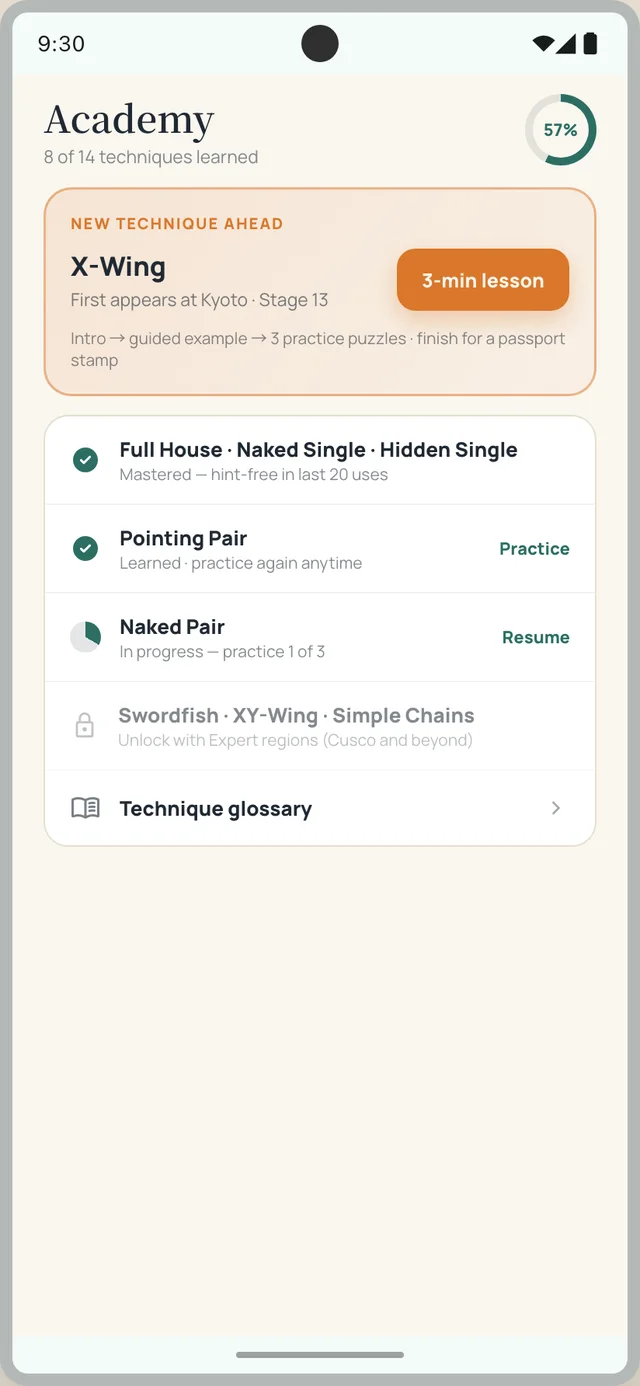
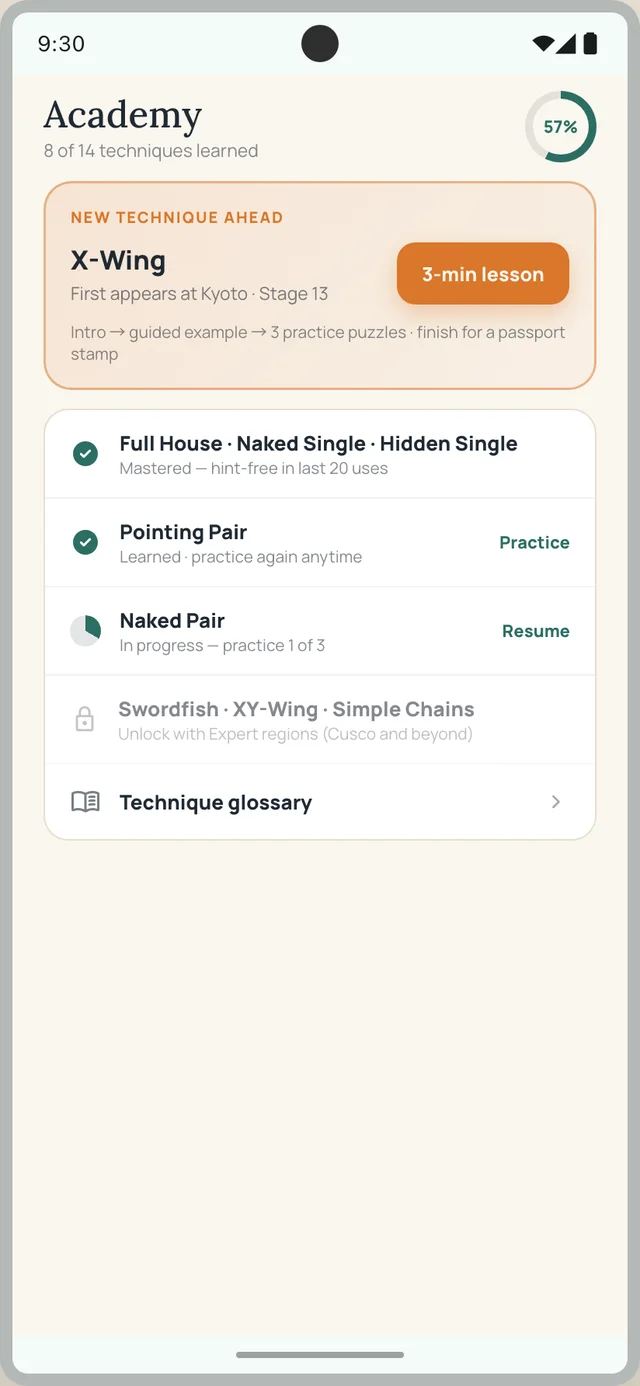
revert: 인앱 화면 표제는 시안대로 Lora 유지 — 세리프 전환은 한글에만
화면 문안은 전부 영문이라 Lora 가 맞다. 세리프 전환은 KO 랜딩의
한글 표제(Noto Serif KR 600, dfde5c3)에만 남긴다.

- assets/sudoku/*.webp 7종을 a9f9f61 이전 상태로 복원 (재렌더 아닌 원본 복구)
- make_screens.py 의 Lora → Noto Serif KR 치환과 SERIF_SIZE_FIX 제거.
  헬멧의 Noto Serif KR 로드도 원복
- display=swap → display=block 은 유지. 폰트 로드 전 폴백 메트릭으로
  캡처되던 실제 결함을 막아주므로 서체와 무관하게 남겨둔다
- 재렌더 결과가 복원한 에셋과 일치하는 것을 a4·b7 로 확인

diff --git a/README.md b/README.md
@@ -52,7 +52,7 @@ sips -s format jpeg -s formatOptions 85 ko-feature-graphic-1024x500.png --out as
 몽글 캐릭터 16종은 이미지가 아니라 빌드 타임에 심어 넣은 인라인 SVG입니다 — Claude Design 의 `MongleChar.dc.html` 로직을 그대로 옮겼습니다.
 스도쿠 보드(랜딩 히어로·힌트 3종·홈 게임 카드·OG)도 같은 방식으로, 시안의 `DCLogic.board()` 를 그대로 옮겨 빌드 타임에 HTML 로 펼쳐 넣습니다.
 
-`/sudoku/` 의 인앱 화면 이미지는 스크린샷이 아니라 **디자인 시안을 실제로 렌더한 결과**입니다. Claude Design 의 `Sudoku Voyage 디자인.dc.html` 을 DC 런타임(`support.js` + `android-frame.jsx`)과 함께 로컬에서 띄우고 화면별로 캡처했습니다. 시안 본문의 `data-dc-script` 는 파일이 커서 API 응답 상한(256KiB)에 잘려 받지 못했기 때문에, 보드·입력판 데이터는 같은 프로젝트의 웹사이트 시안에 있는 `DCLogic` 을 기준으로 재구성했습니다 (스크립트: `scratchpad/make_screens.py`, `dcrender/dclogic.html` — 저장소에는 결과 이미지만 들어옵니다). 시안 주석(§ 참조 줄)과 화면 안의 한국어 주석 라벨은 캡처 전에 제거·영문화했고, 표제 서체는 랜딩과 맞추기 위해 시안의 Lora 대신 **Noto Serif KR 600** 으로 렌더합니다.
+`/sudoku/` 의 인앱 화면 이미지는 스크린샷이 아니라 **디자인 시안을 실제로 렌더한 결과**입니다. Claude Design 의 `Sudoku Voyage 디자인.dc.html` 을 DC 런타임(`support.js` + `android-frame.jsx`)과 함께 로컬에서 띄우고 화면별로 캡처했습니다. 시안 본문의 `data-dc-script` 는 파일이 커서 API 응답 상한(256KiB)에 잘려 받지 못했기 때문에, 보드·입력판 데이터는 같은 프로젝트의 웹사이트 시안에 있는 `DCLogic` 을 기준으로 재구성했습니다 (스크립트: `scratchpad/make_screens.py`, `dcrender/dclogic.html` — 저장소에는 결과 이미지만 들어옵니다). 시안 주석(§ 참조 줄)과 화면 안의 한국어 주석 라벨은 캡처 전에 제거·영문화했습니다. 화면 문안은 전부 영문이라 표제 서체는 시안대로 Lora 를 씁니다 — 세리프 전환은 KO 랜딩의 한글 표제(`Noto Serif KR 600`)에만 적용됩니다.
 
 라이프스타일 라인(피부핑 `/skinping/`, 롤개팅 `/lol.dating/`)은 별도 저장소에서 같은 도메인 하위 경로로 배포되며, 각자의 약관 페이지도 해당 저장소에 있습니다.
 
